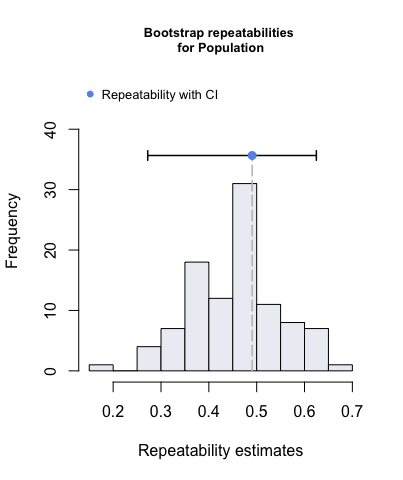
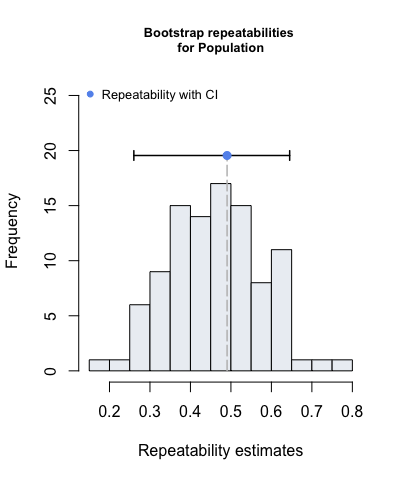
readme typo

diff --git a/README.md b/README.md
@@ -61,7 +61,7 @@ rpts <- rpt(BodyL ~ Treatment + Sex + (1 | Container) + (1 | Population),
             datatype = "Gaussian", nboot = 100, npermut = 100)
 ```
 
-An extended summry of the results can be viewed with `summary()`.
+An extended summary of the results is shown with `summary()`.
 
 ``` r
 summary(rpts)
@@ -77,12 +77,12 @@ summary(rpts)
 #> 
 #> Repeatability estimation overview: 
 #>       R     SE   2.5%  97.5% P_permut  LRT_P
-#>  0.0834 0.0234 0.0479  0.136     0.01      0
+#>  0.0834 0.0268 0.0462  0.142     0.01      0
 #> 
 #> Bootstrapping and Permutation test: 
-#>             N    Mean   Median   2.5%  97.5%
-#> boot      100 0.09214 0.093979 0.0479 0.1355
-#> permut    100 0.00491 0.000494 0.0000 0.0222
+#>             N   Mean   Median   2.5%  97.5%
+#> boot      100 0.0888 8.89e-02 0.0462 0.1419
+#> permut    100 0.0043 1.09e-11 0.0000 0.0188
 #> 
 #> Likelihood ratio test: 
 #> logLik full model = -1528.553
@@ -96,12 +96,12 @@ summary(rpts)
 #> 
 #> Repeatability estimation overview: 
 #>       R     SE   2.5%  97.5% P_permut  LRT_P
-#>   0.491  0.093  0.272  0.625     0.04      0
+#>   0.491  0.111   0.26  0.645     0.03      0
 #> 
 #> Bootstrapping and Permutation test: 
 #>             N   Mean Median   2.5%  97.5%
-#> boot      100  0.453  0.464  0.272  0.625
-#> permut    100  0.455  0.455  0.415  0.492
+#> boot      100  0.461  0.464  0.260  0.645
+#> permut    100  0.455  0.455  0.424  0.489
 #> 
 #> Likelihood ratio test: 
 #> logLik full model = -1528.553
